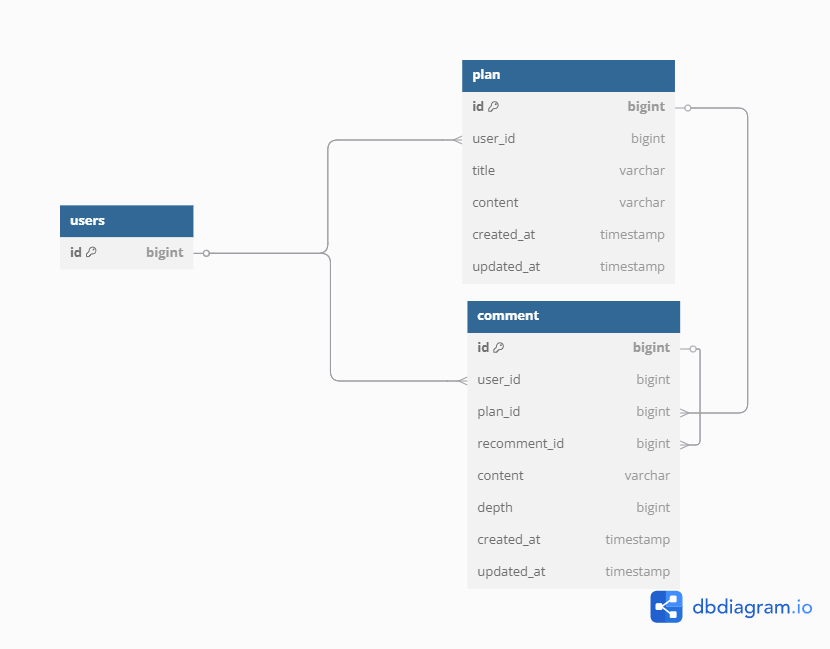
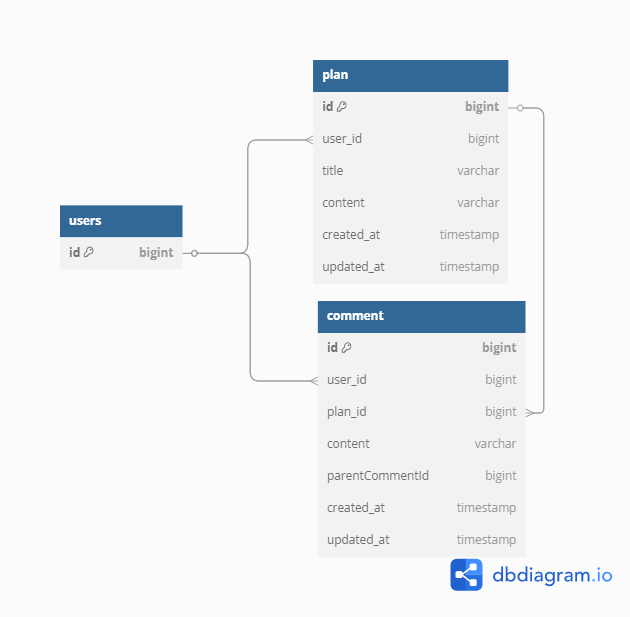
docs : ERD 이미지 및 README 작성

diff --git a/README.md b/README.md
@@ -1,0 +1,68 @@
+# 프로젝트 개요
+- 댓글 CRUD 및 대댓글 CRUD 구현
+
+- 프로젝트 기간 : 2025-04-30 ~ 2025-05-14
+
+---
+# 개발환경
+- jdk : 17.0.1
+- Framework : Spring Boot 3.4.5
+- Build Tool : Gradle
+- IDE : IntelliJ
+---
+
+# ERD
+![img_3.png](img_3.png)
+
+---
+# API 명세서
+
+---
+# 구현 기능
+
+
+## 0. 공통 부문
+
+- GlobalExceptionHandler를 통해 예외처리를 하였습니다
+- JPA Auditing을 활용하기 위해 BaseEntity를 설정하고 생성일과 수정일을 필드로 설정하였습니다
+- 로그인 기능 구현을 위해 filter 및 session을 적용하였습니다
+
+## 1. 유저 부문
+
+- 프로젝트 요구 사항에 따라 유저 부문은 최소화 하였으며 filter 및 session 연습을 위해 그 부분만 구현하였습니다 
+- 회원가입 기능 구현
+- 로그인 기능 구현
+
+## 2. 일정 부문
+
+- 일정 생성 기능 구현
+- 전체 일정 조회 기능 구현
+  - Pageable을 적용하여 페이징 하였습니다
+- 단일 일정 조회 기능 구현
+  - 댓글도 함께 조회하도록 구현하였습니다
+- 일정 수정 기능 구현
+- 일정 삭제 기능 구현
+
+## 3. 댓글 부문
+
+ - 댓글 생성 기능 구현
+ - 댓글 조회 기능 구현
+ - 댓글 수정 기능 구현
+ - 댓글 삭제 기능 구현
+   - 대댓글 조회 시 NPE 방지를 위해 soft delete 형식으로 구현하였습니다
+
+## 4. 대댓글 부문
+
+- 대댓글의 경우 요구사항에는 연관관계를 맺으라고 하였지만 튜터님과 상담 하에 연관관계 없이 진행하였습니다
+- 대댓글의 경우 댓글과 같은 Entity를 공유하기 때문에 API도 공유하여 사용하였습니다  
+- 대댓글 생성 기능 구현
+  - 대댓글 생성 시에 필요한 parentCommentId는 dto를 통해 body로 받아오도록 구현하였습니다
+- 대댓글 조회 기능 구현
+  - 댓글과 트리 형식으로 출력이 가능하도록 하기 위해 Map을 활용하였습니다
+- 대댓글 수정 기능 구현
+- 대댓글 삭제 기능 구현
+
+---
+# 트러블 슈팅
+- 관련 내용은 블로그를 참고해주시기 바랍니다
+  - https://couchpo.tistory.com/
